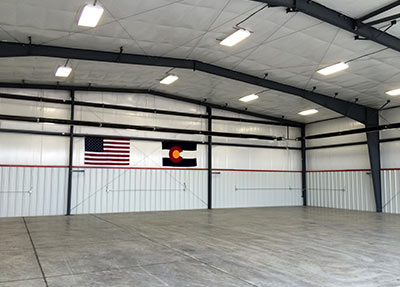
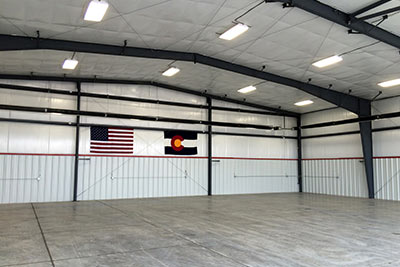
Update the front page section images and also the first slider.

diff --git a/index.html b/index.html
@@ -17,19 +17,19 @@ section_two:
   content: 'As a specialty, subcontractor Big Johnson Construction is dedicated on providing premier pre-engineered erection services throughout the country. We pride ourselves on the ability to service a broad range of projects, with our large in house erection department, no job is too big or too small, too simple or to complex. As an added benefit to our customers, Big Johnson Construction also offers a wide array of alternative economical building solutions through established partnerships with the many vendors servicing the pre-engineered construction industry. Ask us how purchasing a fully furnished and erected building package can help with your bottom line!'
   link_text: View all our services
   link: /services/
-  photo_path: /assets/images/home/home-services.jpg
+  photo_path: /assets/images/home/home-services.png
 section_three:
   title: Projects.
   link_text: View all Projects
   link: /projects/
-  photo_path: /assets/images/home/home-projects.jpg
+  photo_path: /assets/images/home/home-projects.png
 _comments:
   slider: 
     slider_image_path: "The image should be a jpg scaled and cropped to 1200px wide by 350px tall."
   section_one:
-    photo_path: "The image should be a jpg scaled and cropped to 400px wide by 287px tall."
+    photo_path: "The image should be a jpg scaled and cropped to 400px wide by 267px tall."
   section_two:
-    photo_path: "The image should be a jpg scaled and cropped to 400px wide by 287px tall."
+    photo_path: "The image should be a jpg scaled and cropped to 400px wide by 267px tall."
   section_three:
-    photo_path: "The image should be a jpg scaled and cropped to 400px wide by 287px tall."
+    photo_path: "The image should be a jpg scaled and cropped to 400px wide by 267px tall."
 ---

diff --git a/assets/sass/partials/design/views/_front.scss b/assets/sass/partials/design/views/_front.scss
@@ -18,7 +18,7 @@
   background-color: #fff;
   padding: 0 0 .5em;
   .image-wrap {
-    max-height: 200px;
+    //max-height: 200px;
     width: 100%;
     overflow: hidden;
     img {

diff --git a/assets/css/style.css b/assets/css/style.css
@@ -1487,7 +1487,6 @@ main, header, footer, section, aside {
   padding: 0 0 .5em;
 }
 .front-section .image-wrap {
-  max-height: 200px;
   width: 100%;
   overflow: hidden;
 }
